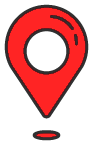
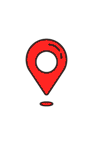
fix mapicons size

diff --git a/src/MainProject/map/mapcontainer.index.js b/src/MainProject/map/mapcontainer.index.js
@@ -1,7 +1,7 @@
 import React, {useState,useEffect} from "react";
 import Map from './mapbase.index'
 import Mapir from "mapir-react-component";
-import markerUrl from "../../assets/images/mapmarker.svg"
+import markerUrl from "../../assets/images/mapmarker.png"
 import {APIPath} from "../../data";
 import {get, responseValidator} from "../../scripts/api";
 import {detailsSideBar} from "../../scripts/storage"
